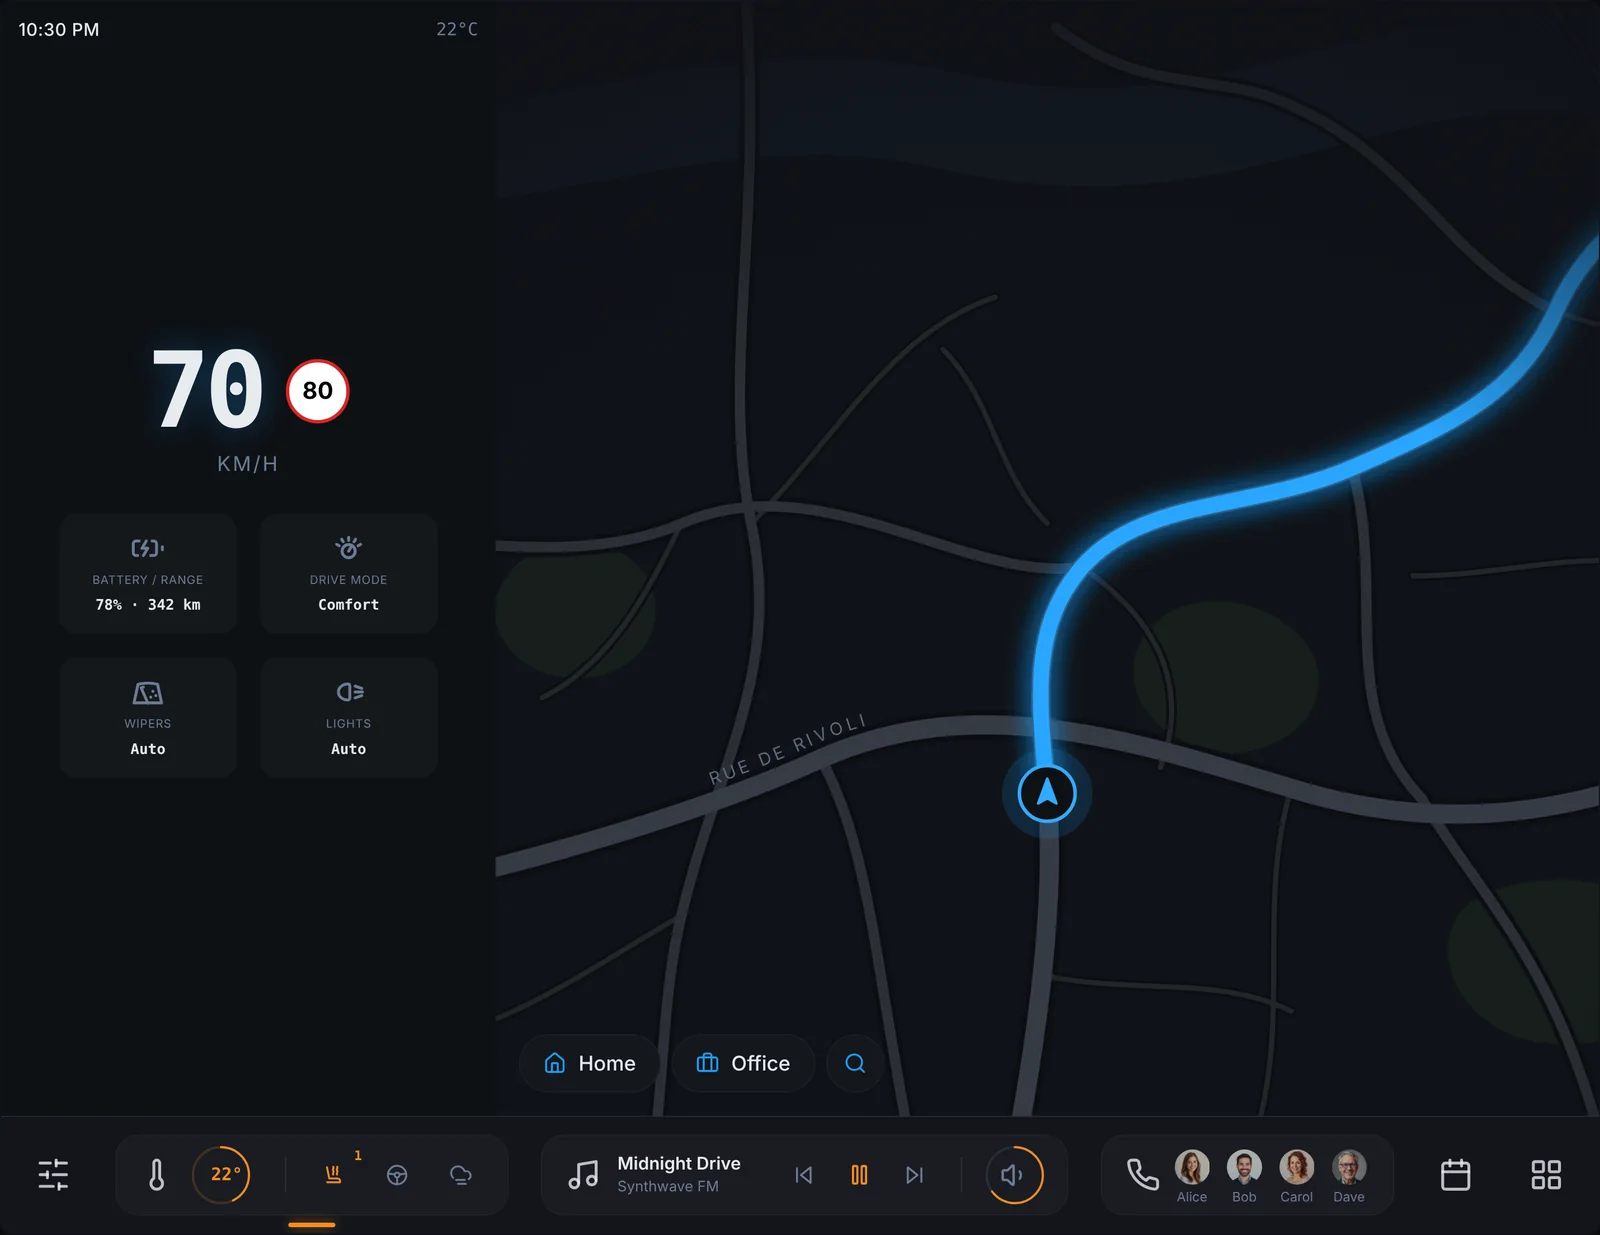
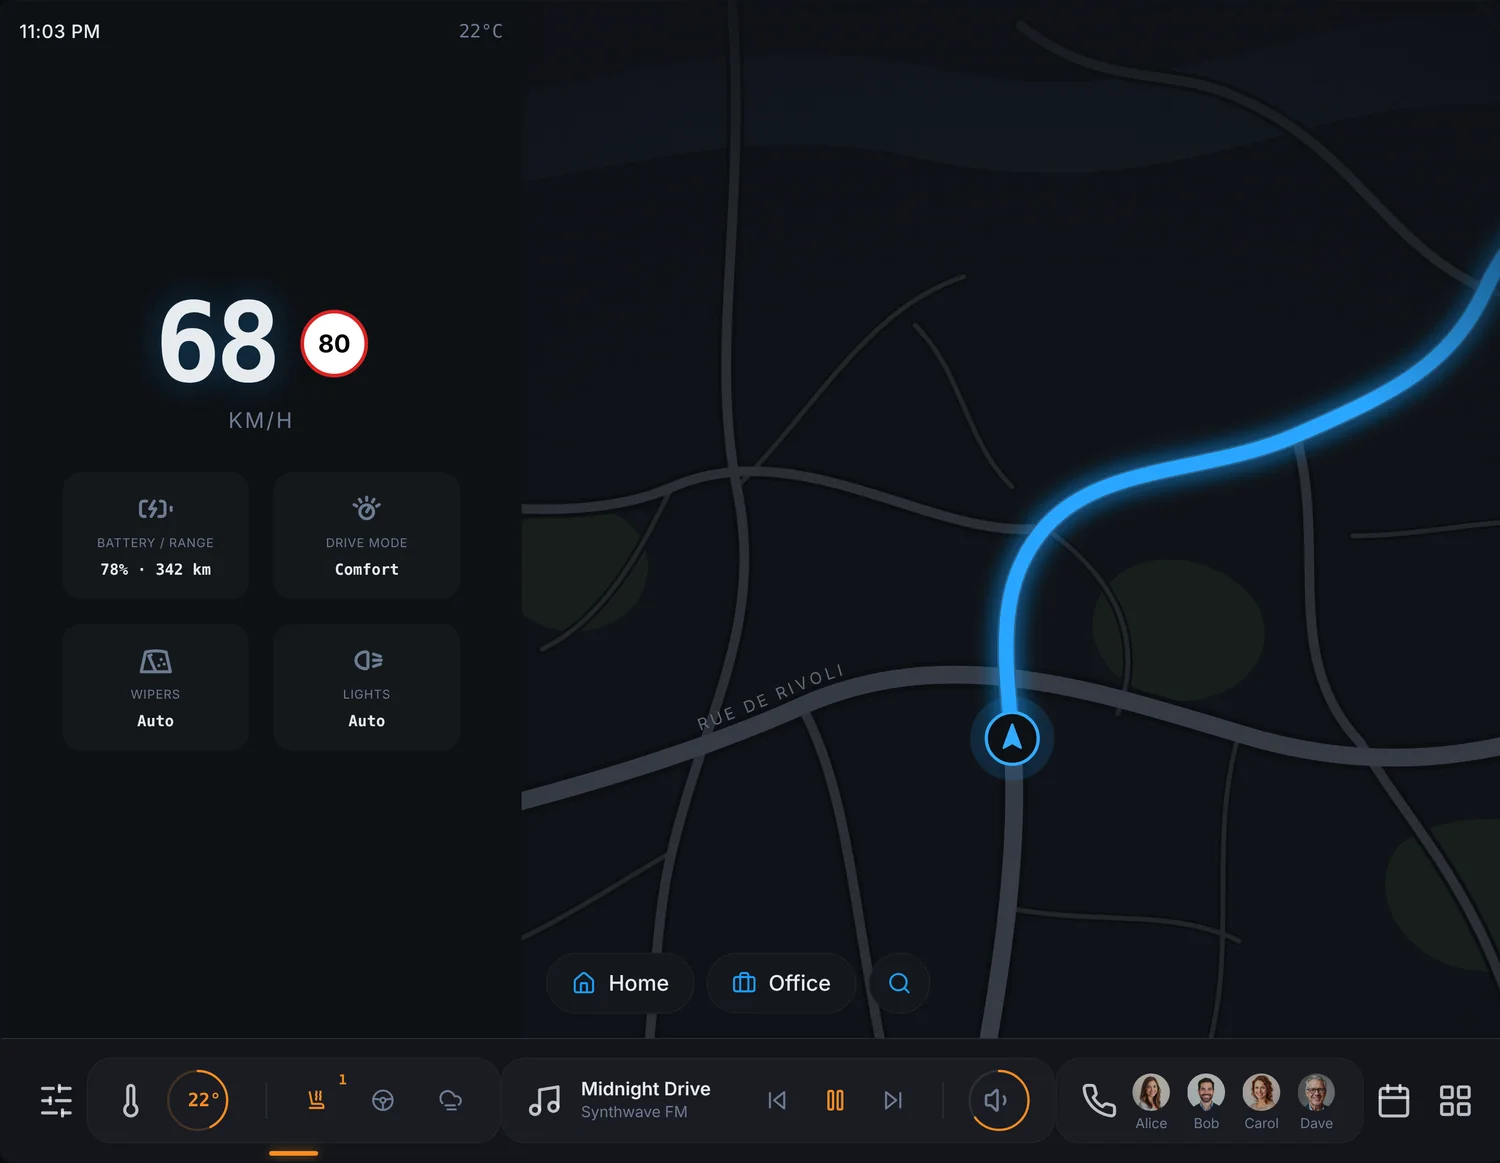
FlexiTact: dark interior from the deck image, round jog toggle, larger real UI
Claude-Session: https://claude.ai/code/session_01NU2zxrHgFNW8VtDDeJdMEd

diff --git a/index.html b/index.html
@@ -219,10 +219,10 @@ ul{list-style:none;margin:0;padding:0}
       <a class="media" href="https://flexitact.lovable.app" target="_blank" rel="noopener" style="--panel:#0A0C10" data-cursor="Try it live" aria-label="FlexiTact, open the live demo">
         <div class="chip a ink pin"><span class="ic" style="background:#2A2F38"><svg width="16" height="16" viewBox="0 0 24 24" fill="none" stroke="#5EB8FF" stroke-width="2" stroke-linecap="round" stroke-linejoin="round" aria-hidden="true"><path d="M12 3 4 6v6c0 4.5 3.4 8.3 8 9 4.6-.7 8-4.5 8-9V6z"/><path d="m9 12 2 2 4-4"/></svg></span>Patent pending</div>
         <div class="ivi-split">
-          <div class="ivi-cabin"><img src="assets/flexitact-cabin.webp" width="1260" height="1400" alt="Driver view of a car interior: the FlexiTact UI on a raised centre screen, with the jog toggle and rotary joystick on the centre console"></div>
+          <div class="ivi-cabin"><img src="assets/flexitact-cabin.webp" width="1400" height="1458" alt="Dark car interior with the FlexiTact UI on the centre screen, and the round jog toggle and rotary joystick on the centre console"></div>
           <div class="ivi-side">
             <div class="phone-wrap ivi-wrap">
-              <div class="ivi-screen"><img src="assets/flexitact-screen.webp" width="1600" height="1235" alt="FlexiTact infotainment screen with driving info, map and a taskbar of widgets, the climate widget in focus"></div>
+              <div class="ivi-screen"><img src="assets/flexitact-screen.webp" width="1500" height="1163" alt="FlexiTact infotainment screen with driving info, map and a taskbar of widgets, the climate widget in focus"></div>
               <img class="ivi-controls" src="assets/flexitact-controls.webp" width="708" height="402" alt="The jog toggle set to Climate and the rotary joystick adjusting temperature">
             </div>
           </div>
